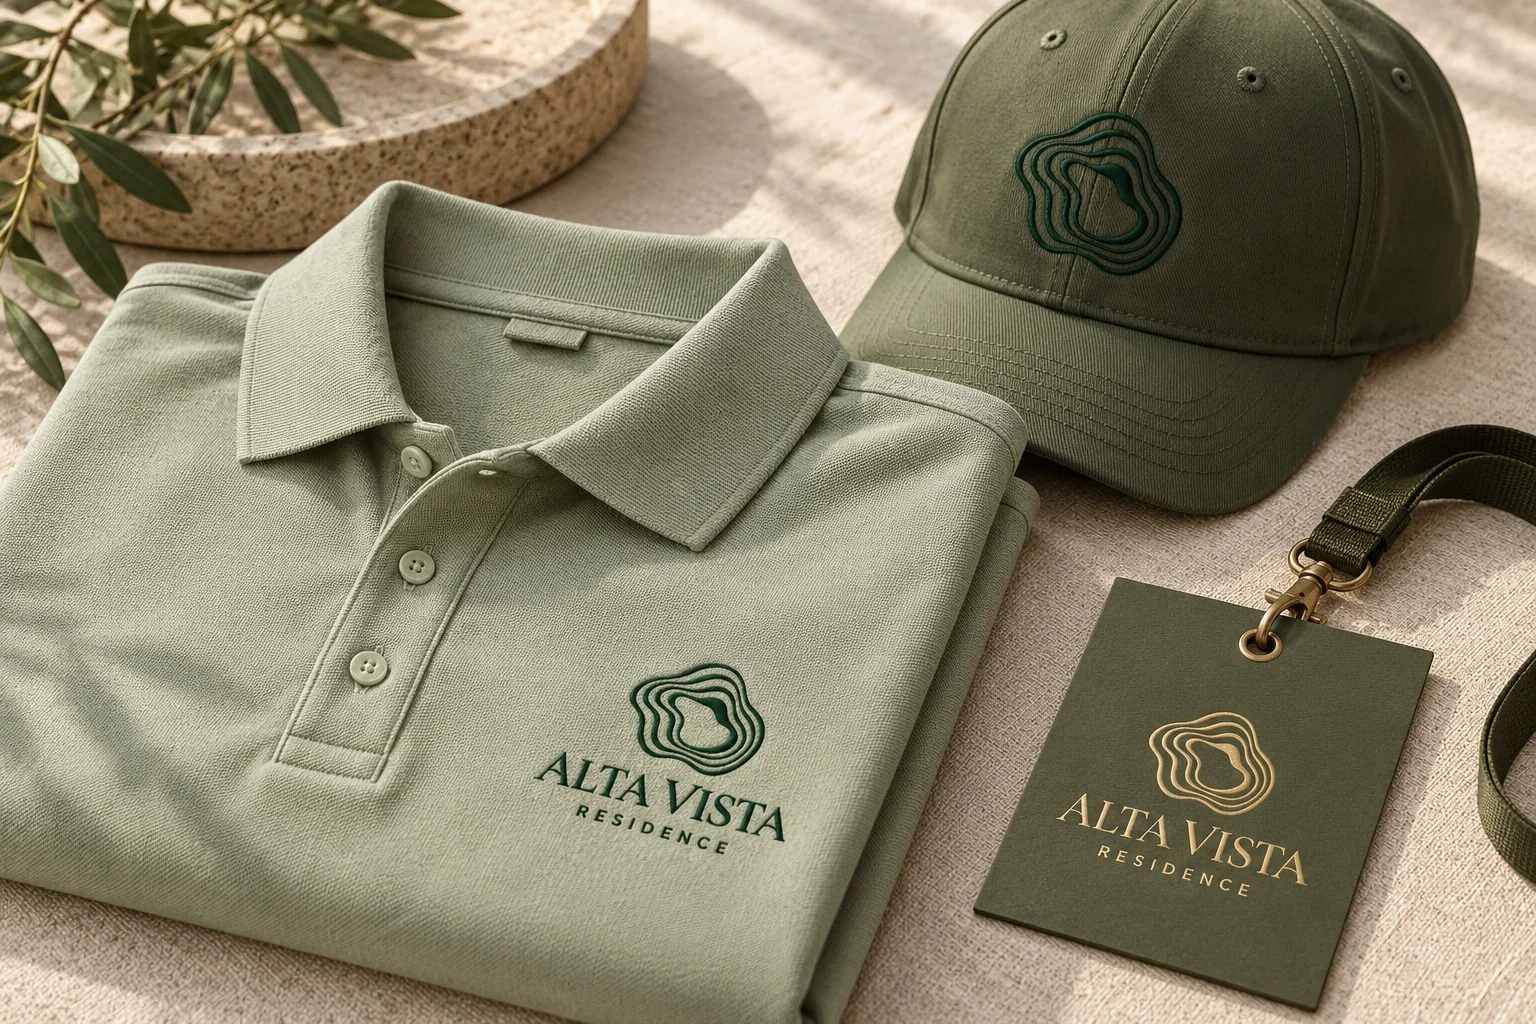
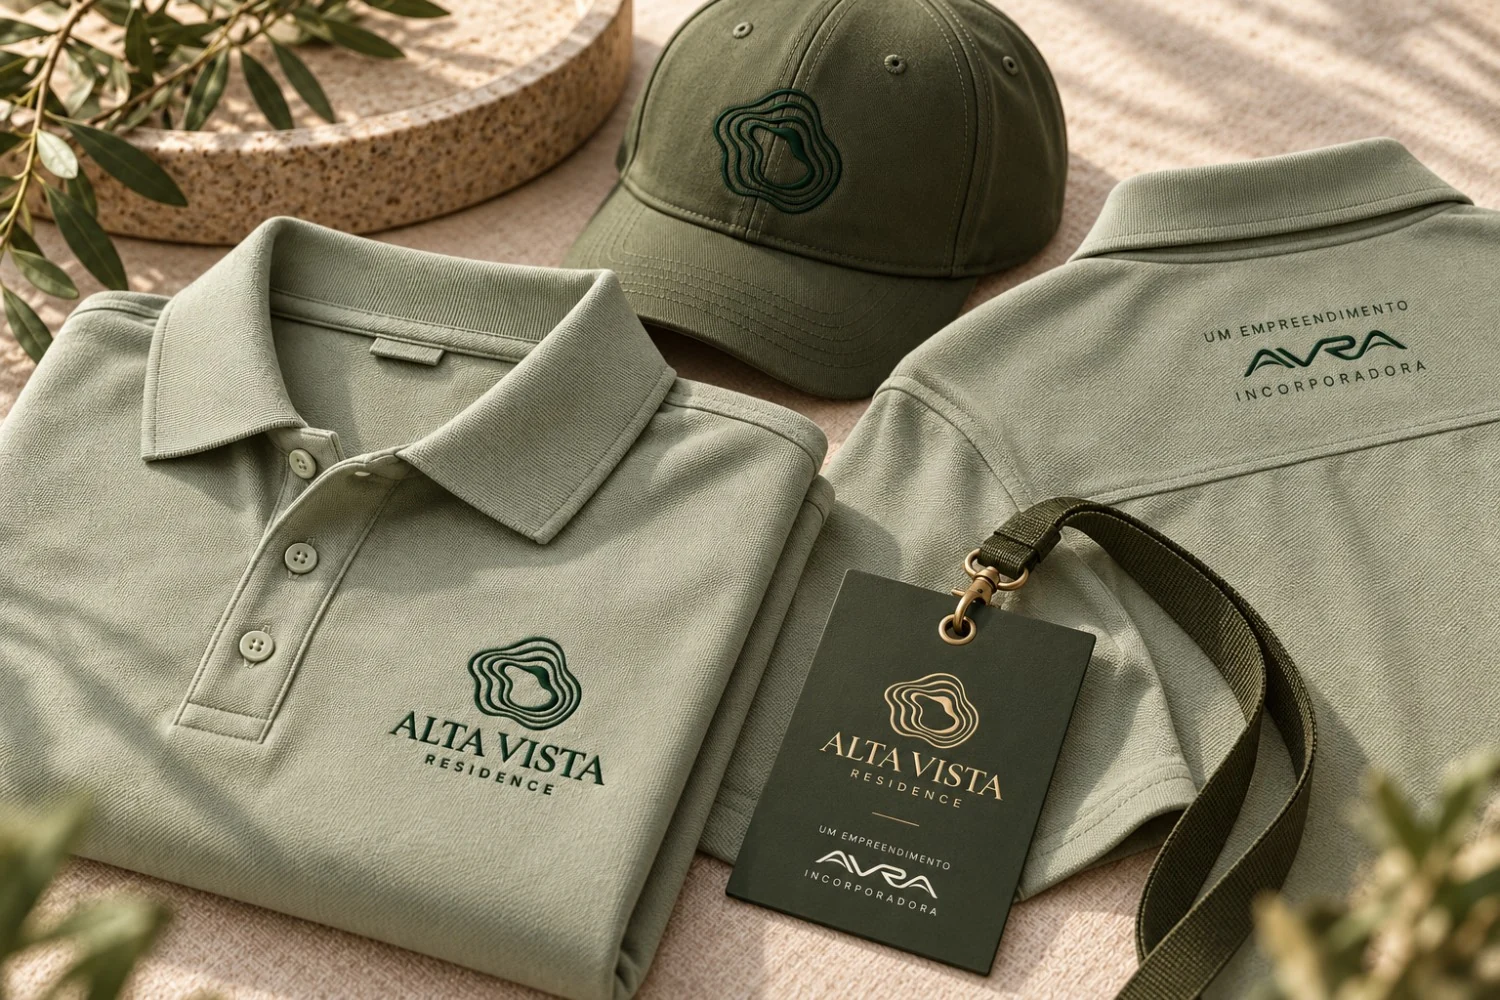
Atualiza mockups: totem, kit com endosso AVRA, pavilhão, uniformes e objetos
Claude-Session: https://claude.ai/code/session_019Uw3KRTGzgMGbRku8HcvQx

diff --git a/index.html b/index.html
@@ -376,7 +376,7 @@
     <section class="material section--mata">
       <div class="wrap material__grid">
         <figure class="material__media" data-tilt data-cursor="ampliar" data-lightbox="assets/img/mockup-materialidade.webp">
-          <div class="parallax-inner"><img src="assets/img/mockup-materialidade.webp" alt="Caixa, pasta e envelope com a marca Alta Vista em papel texturizado e foil dourado" loading="lazy"></div>
+          <div class="parallax-inner"><img src="assets/img/mockup-materialidade.webp" alt="Caixa Mineral, pasta Mata com foil dourado e envelope Sálvia com a assinatura Alta Vista e o endosso AVRA Incorporadora" loading="lazy"></div>
           <span class="tilt-card__glare"></span>
         </figure>
         <div class="material__copy">
@@ -591,17 +591,18 @@
         <div class="gallery__head wrap">
           <p class="eyebrow">Aplicações</p>
           <h2 class="h2">Mockups da marca</h2>
-          <p class="gallery__count"><span id="galleryIndex">01</span> / 08</p>
+          <p class="gallery__count"><span id="galleryIndex">01</span> / 09</p>
         </div>
         <div class="gallery__track" id="galleryTrack">
           <figure class="gcard" data-cursor="ampliar" data-lightbox="assets/img/mockup-tapume.webp"><div class="gcard__img"><img src="assets/img/mockup-tapume.webp" alt="Tapume com painéis da marca, P01, foto de família e frase de campanha" loading="lazy"></div><figcaption><b>Campanha de tapume</b><span>Imagem, assinatura e P01 em alternância.</span></figcaption></figure>
-          <figure class="gcard" data-cursor="ampliar" data-lightbox="assets/img/mockup-pavilhao.webp"><div class="gcard__img"><img src="assets/img/mockup-pavilhao.webp" alt="Recepção do pavilhão de vendas com logo dourado em relevo e P01 no vidro" loading="lazy"></div><figcaption><b>Pavilhão de vendas</b><span>Materiais naturais e P01 em escala arquitetônica.</span></figcaption></figure>
+          <figure class="gcard" data-cursor="ampliar" data-lightbox="assets/img/mockup-totem.webp"><div class="gcard__img"><img src="assets/img/mockup-totem.webp" alt="Totem de entrada em verde Oliva com símbolo e lettering em relevo dourado, ao lado de muro de pedra com o símbolo" loading="lazy"></div><figcaption><b>Totem de entrada</b><span>Relevo dourado sobre Oliva; símbolo no muro de pedra.</span></figcaption></figure>
+          <figure class="gcard" data-cursor="ampliar" data-lightbox="assets/img/mockup-pavilhao.webp"><div class="gcard__img"><img src="assets/img/mockup-pavilhao.webp" alt="Recepção do pavilhão com símbolo e lettering em relevo dourado sobre parede mineral" loading="lazy"></div><figcaption><b>Pavilhão de vendas</b><span>Relevo dourado escovado sobre parede mineral.</span></figcaption></figure>
           <figure class="gcard" data-cursor="ampliar" data-lightbox="assets/img/mockup-apresentacao.webp"><div class="gcard__img"><img src="assets/img/mockup-apresentacao.webp" alt="Livro de apresentação comercial com capa Mineral e P01 em Sálvia" loading="lazy"></div><figcaption><b>Apresentação comercial</b><span>Papel, recortes e acabamento táteis.</span></figcaption></figure>
           <figure class="gcard" data-cursor="ampliar" data-lightbox="assets/img/mockup-instagram.webp"><div class="gcard__img"><img src="assets/img/mockup-instagram.webp" alt="Tablet e celular exibindo feed e story da marca" loading="lazy"></div><figcaption><b>Instagram e stories</b><span>Fundos, fotografia e grafismo alternados.</span></figcaption></figure>
           <figure class="gcard" data-cursor="ampliar" data-lightbox="assets/img/mockup-convite.webp"><div class="gcard__img"><img src="assets/img/mockup-convite.webp" alt="Convite em papel com baixo-relevo do P01 e fita oliva" loading="lazy"></div><figcaption><b>Convite e relacionamento</b><span>Baixo-relevo e dourado pontual.</span></figcaption></figure>
-          <figure class="gcard" data-cursor="ampliar" data-lightbox="assets/img/mockup-objetos.webp"><div class="gcard__img"><img src="assets/img/mockup-objetos.webp" alt="Sacola de algodão, caderno, envelope e garrafa térmica com a marca" loading="lazy"></div><figcaption><b>Objetos e boas-vindas</b><span>Logo na peça principal, símbolo nos detalhes.</span></figcaption></figure>
-          <figure class="gcard" data-cursor="ampliar" data-lightbox="assets/img/mockup-uniformes.webp"><div class="gcard__img"><img src="assets/img/mockup-uniformes.webp" alt="Camisa polo, boné e crachá com a marca bordada e em foil" loading="lazy"></div><figcaption><b>Uniformes e identificação</b><span>Discrição também constrói presença.</span></figcaption></figure>
-          <figure class="gcard" data-cursor="ampliar" data-lightbox="assets/img/mockup-materialidade.webp"><div class="gcard__img"><img src="assets/img/mockup-materialidade.webp" alt="Caixa, pasta e envelope com acabamento em foil dourado" loading="lazy"></div><figcaption><b>Materialidade</b><span>Dourado acetinado sobre base natural.</span></figcaption></figure>
+          <figure class="gcard" data-cursor="ampliar" data-lightbox="assets/img/mockup-objetos.webp"><div class="gcard__img"><img src="assets/img/mockup-objetos.webp" alt="Sacola Oliva, cartão Mineral, caderno Mata com símbolo dourado e chaveiro metálico do símbolo" loading="lazy"></div><figcaption><b>Objetos e boas-vindas</b><span>Logo na peça principal, símbolo nos detalhes.</span></figcaption></figure>
+          <figure class="gcard" data-cursor="ampliar" data-lightbox="assets/img/mockup-uniformes.webp"><div class="gcard__img"><img src="assets/img/mockup-uniformes.webp" alt="Camisas polo Sálvia, boné Oliva bordado e crachá Mata com foil dourado e endosso AVRA" loading="lazy"></div><figcaption><b>Uniformes e identificação</b><span>Bordado em uma cor; endosso AVRA nas costas.</span></figcaption></figure>
+          <figure class="gcard" data-cursor="ampliar" data-lightbox="assets/img/mockup-materialidade.webp"><div class="gcard__img"><img src="assets/img/mockup-materialidade.webp" alt="Caixa Mineral, pasta Mata com foil dourado e envelope Sálvia, todos com o endosso AVRA Incorporadora" loading="lazy"></div><figcaption><b>Kit de apresentação</b><span>Assinatura principal com endosso AVRA abaixo.</span></figcaption></figure>
         </div>
       </div>
     </section>
